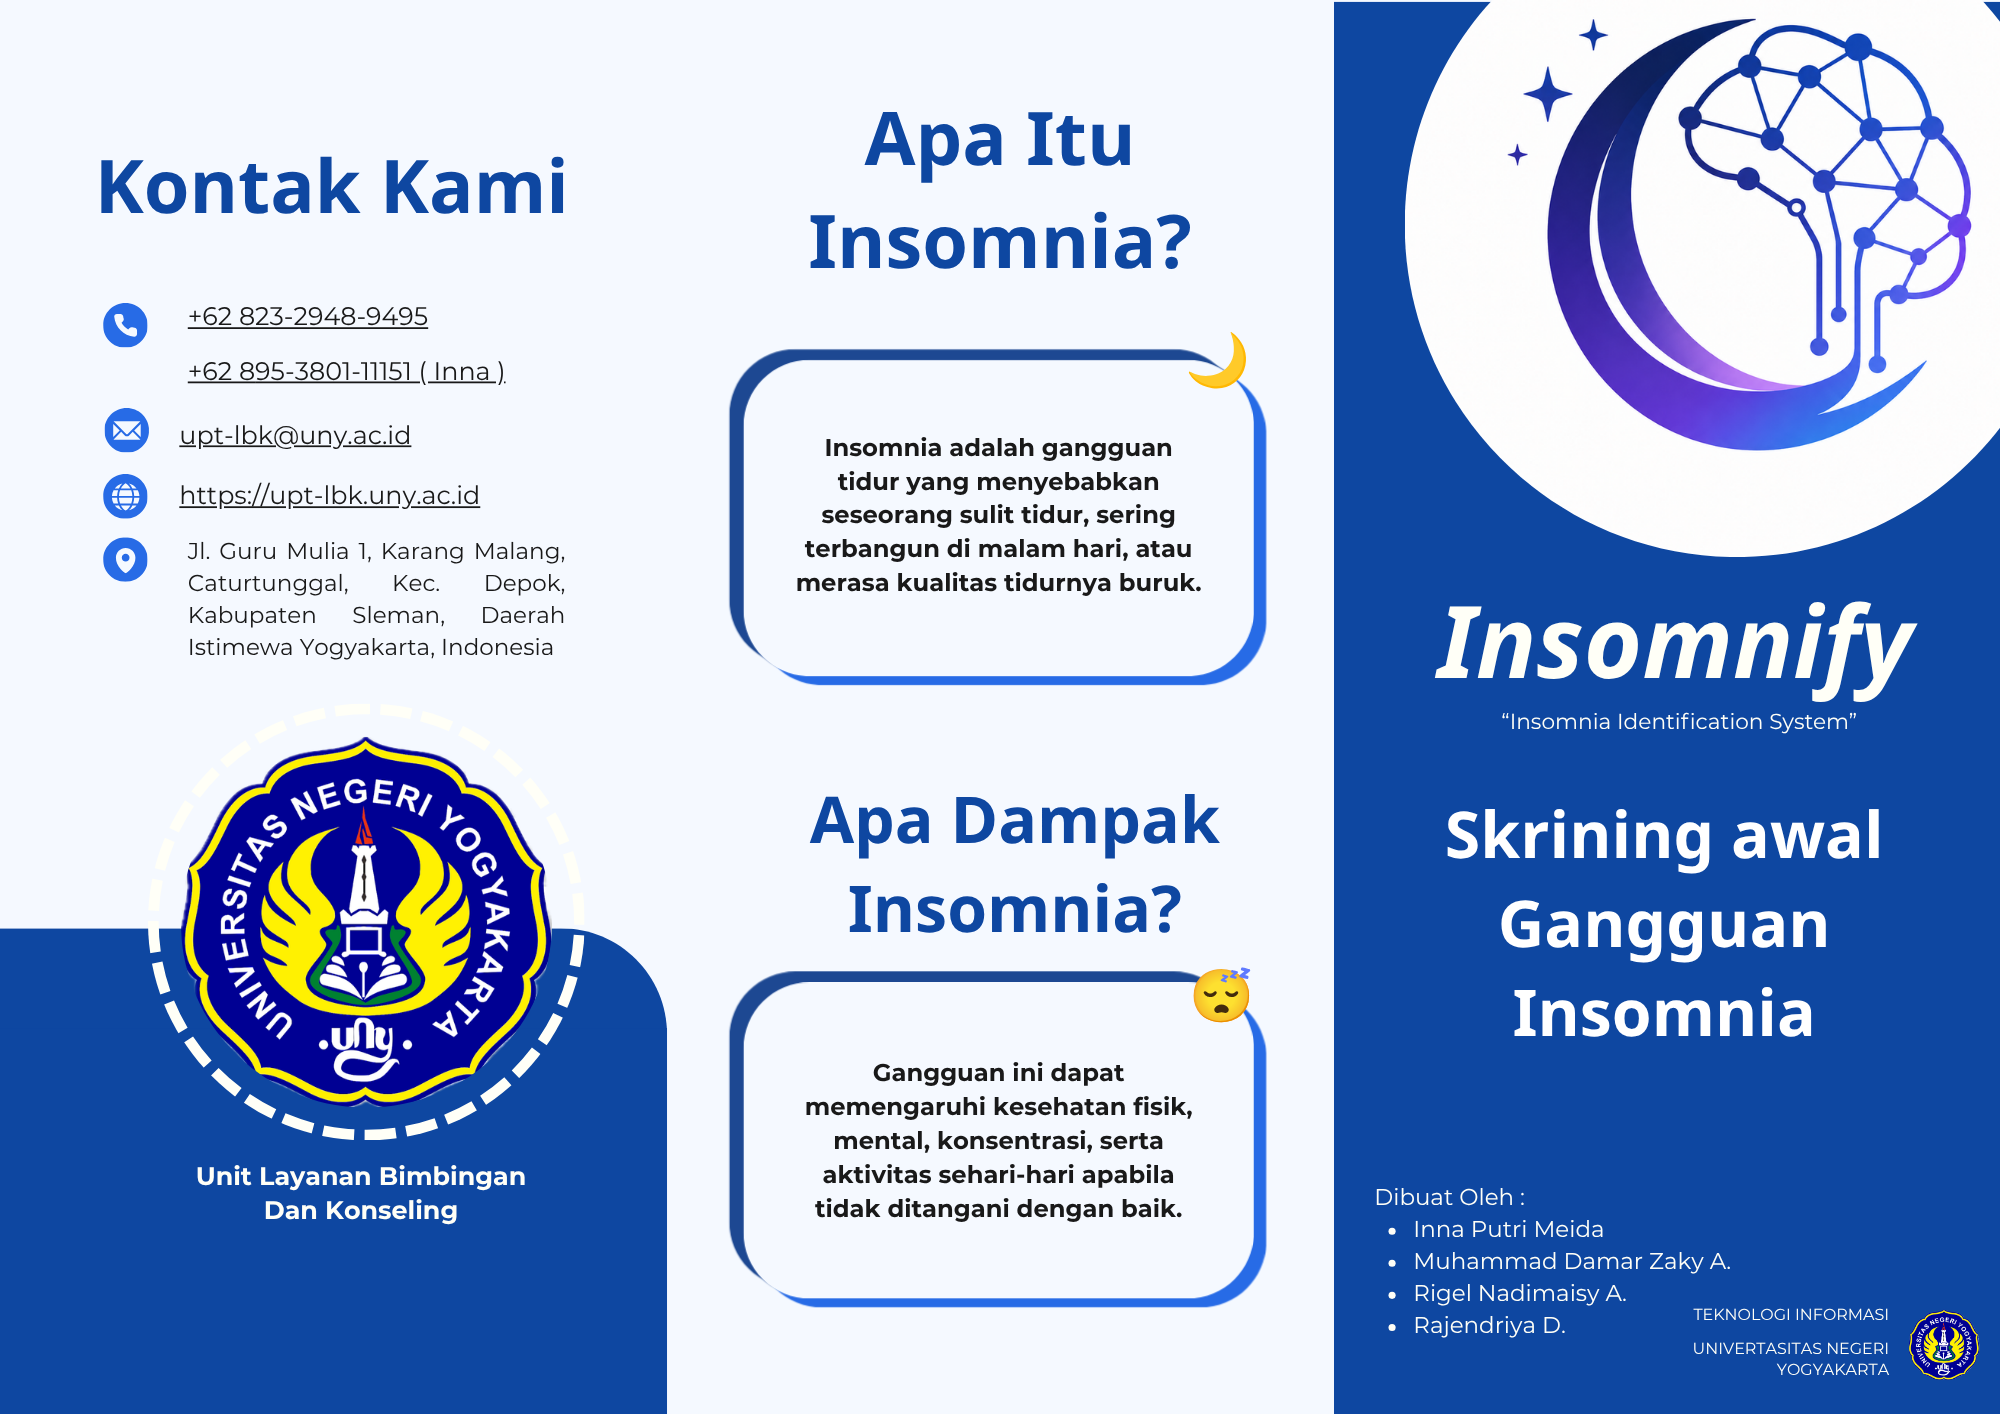
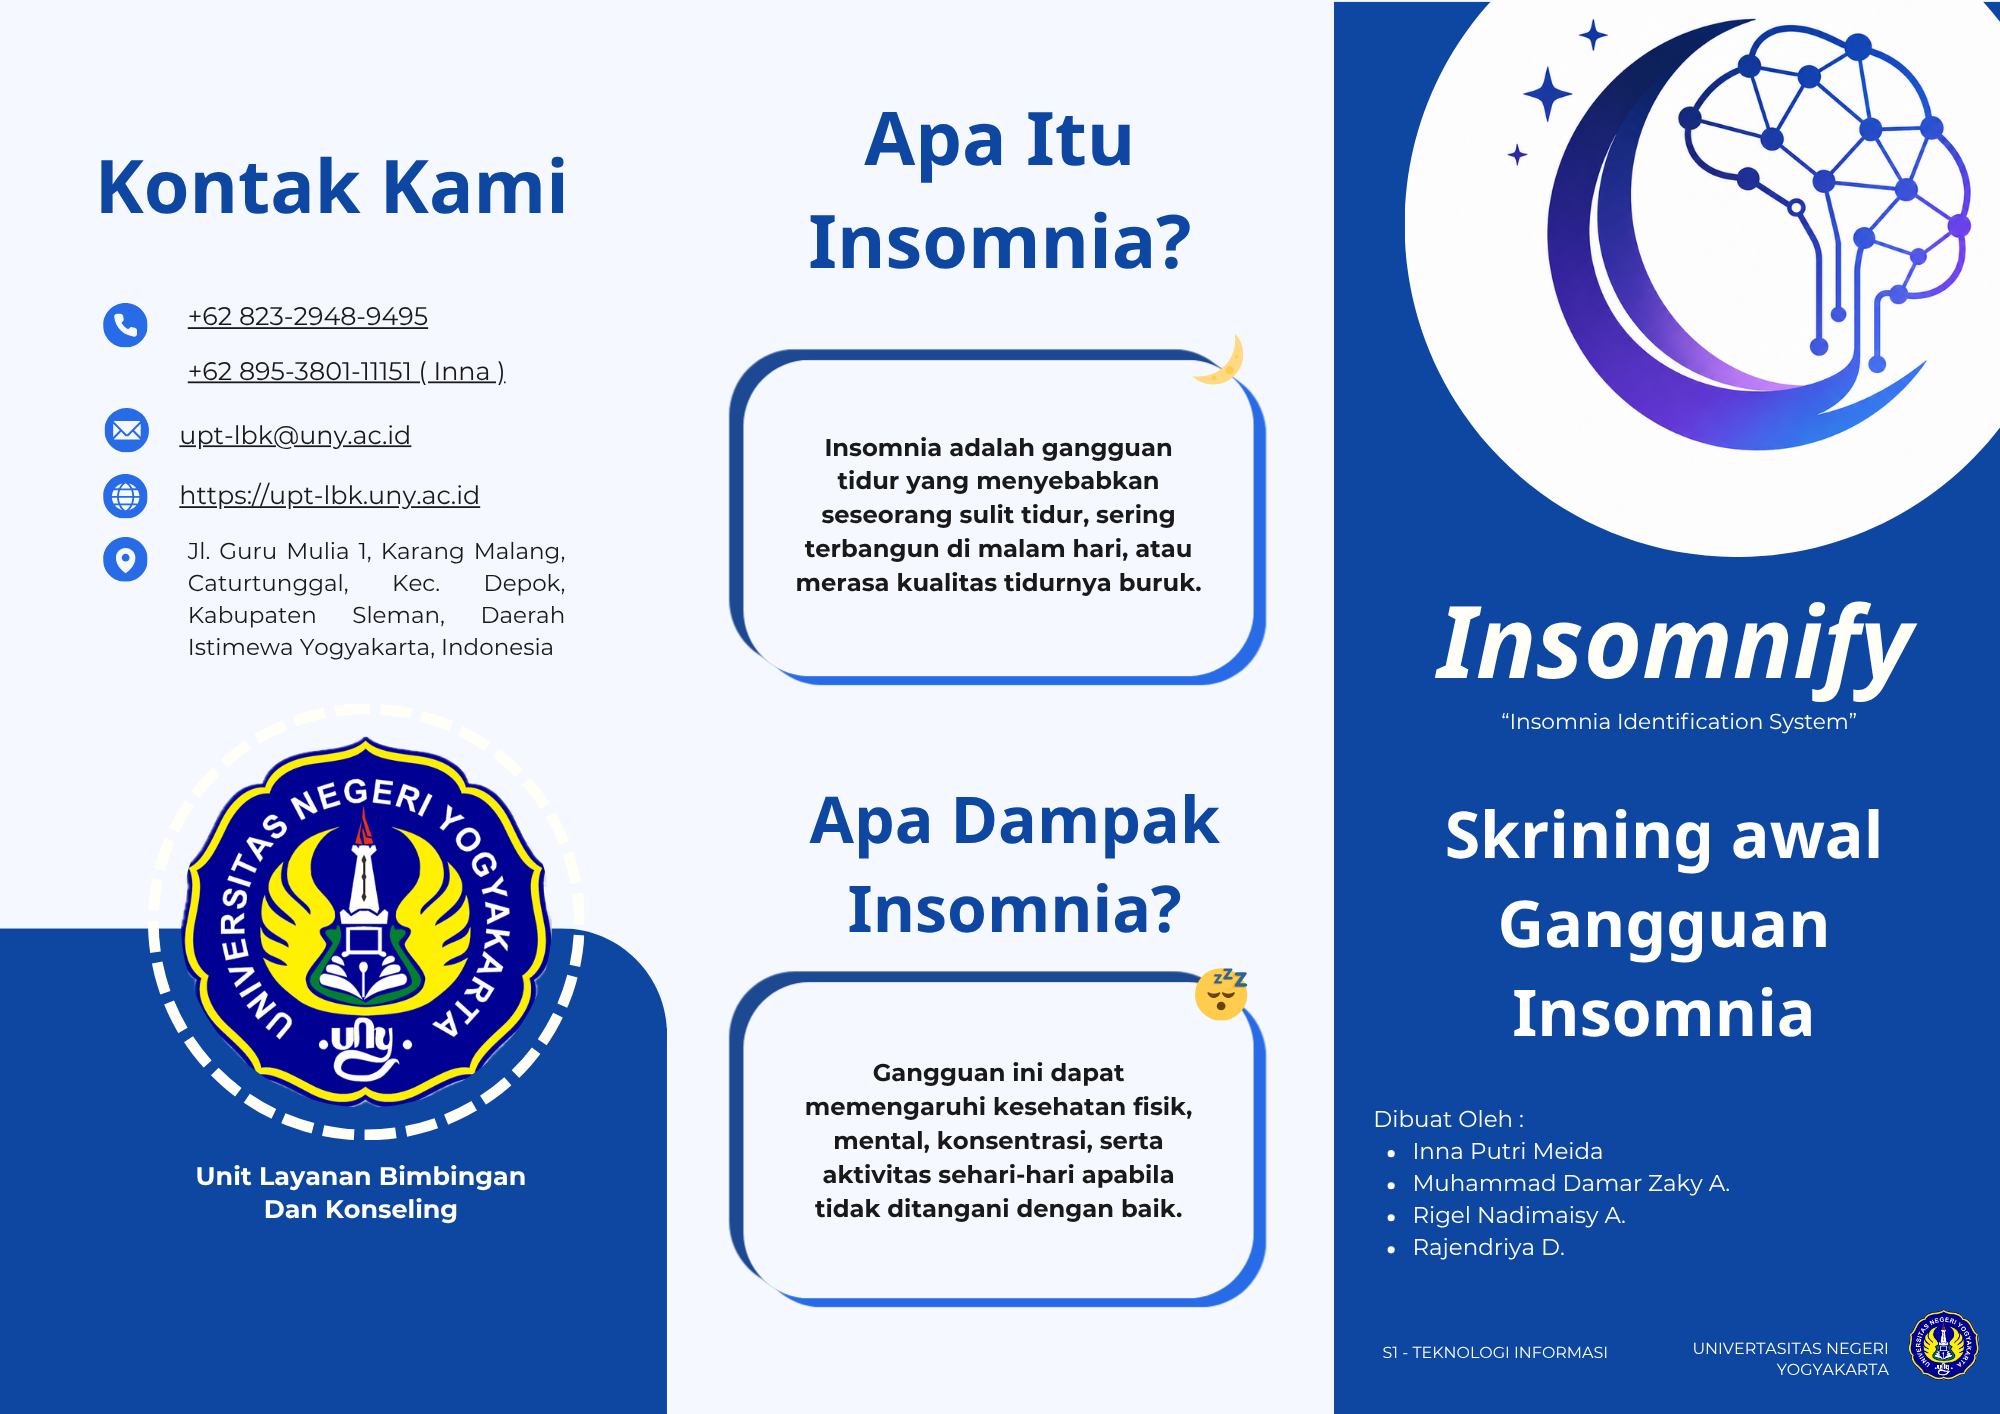
update leaflet (kelompok 3)

diff --git a/kelompok-3/style.css b/kelompok-3/style.css
@@ -586,10 +586,16 @@ body {
 }
 
 /* KARTU LUARAN KARYA (GRID GLOBAL) */
+
+.luaran-layout {
+    margin-bottom: 40px; /* <--- TAMBAHKAN BARIS INI */
+}
+
 .media-showcase-grid {
     display: grid;
     grid-template-columns: 1fr 1fr;
     gap: 30px;
+    margin-top: 40px; /* <--- TAMBAHKAN BARIS INI (Sesuaikan angkanya jika kurang/lebih lebar) */
 }
 
 .media-glass-box {
@@ -680,6 +686,7 @@ body {
     padding: 4rem 2rem;
     text-align: center;
     box-shadow: var(--glass-shadow);
+     margin-top: 50px;
 }
 
 .demo-cta-box i.cta-icon {
